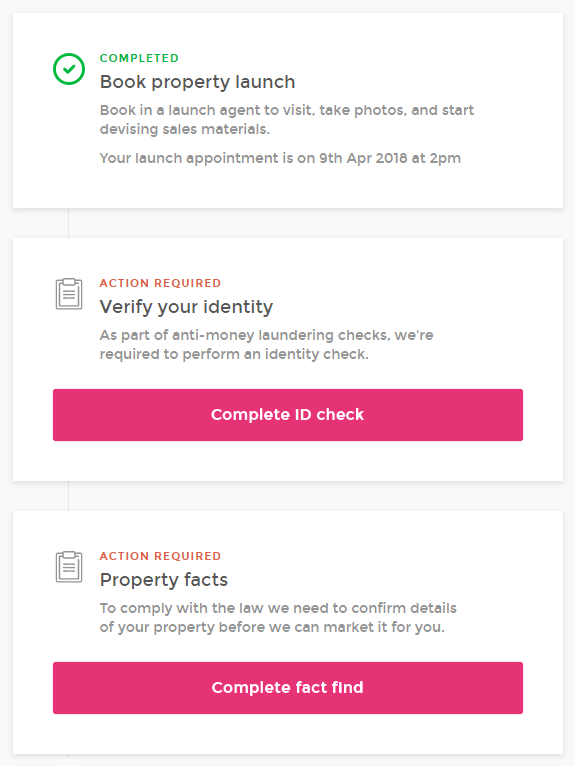
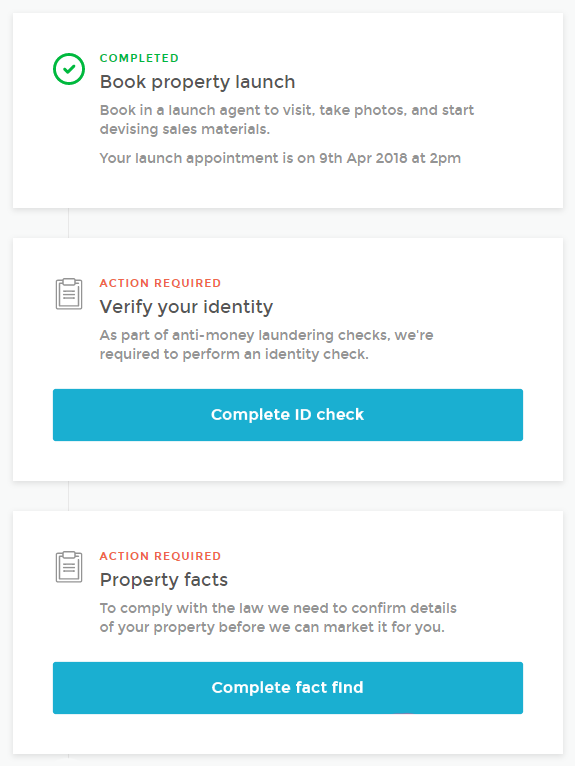
making things less pink

Changed region(s): [[0.0887, 0.8407, 0.9165, 0.9308], [0.0887, 0.5104, 0.9165, 0.6005]]

diff --git a/_includes/page-footer.html b/_includes/page-footer.html
@@ -10,9 +10,9 @@
     </div>
     <div class='large-8 columns'>
       <h4 style="color: #FFFFFF;">Contact</h4>
-      <p class="contact-text">London <span style="color: #e63375;">//</span> 78 York Street, London, W1H 1DP</p>
-      <p class="contact-text">Manchester <span style="color: #e63375;">//</span> 5th Floor, Building 5, Universal Square, Devonshire Street, Manchester, M12 6JH</p>
-      <p class="contact-text">Birmingham(ish) <span style="color: #e63375;">//</span> 30 Greenbox, Westonhall Road, Stoke Prior, Bromsgrove, B60 4AL</p>
+      <p class="contact-text">London <span style="color: #343d4f;">//</span> 78 York Street, London, W1H 1DP</p>
+      <p class="contact-text">Manchester <span style="color: #343d4f;">//</span> 5th Floor, Building 5, Universal Square, Devonshire Street, Manchester, M12 6JH</p>
+      <p class="contact-text">Birmingham(ish) <span style="color: #343d4f;">//</span> 30 Greenbox, Westonhall Road, Stoke Prior, Bromsgrove, B60 4AL</p>
         <p class="contact-text"><a href="tel:+442039083000">0203 908 3000</p>
     </div>
     <div class='large-2 columns'>

diff --git a/css/style.css b/css/style.css
@@ -4043,8 +4043,8 @@ body {
       position: absolute;
       top: 50%;
       left: 0;
-      border-top: 13px solid #e63375;
-      background: #e63375;
+      border-top: 13px solid #0fafd4;
+      background: #0fafd4;
       width: 100%;
       transform: translateY(-50%);
       border-radius: 100px;
